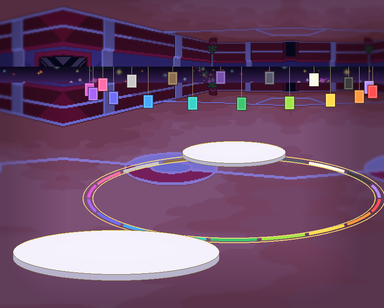
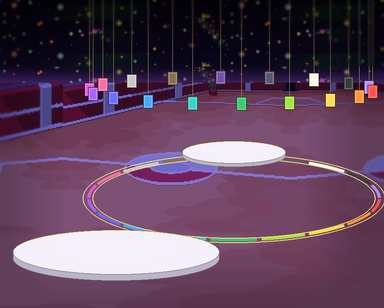
Backdrops: PRISM_ARENA gets its night sky above the stands; the barrier wall continues in perspective
Above the starfield strip the builder lays over the panel's top, the arena used to hang upside down (court
floor at the top of the room, the doorway inverted); now the same New World starfield runs on up under a
violet wash that deepens toward the zenith, and the prism plates' strings rise out of sight. At the panel's
left edge the barrier wall folded back into a mirrored corner; now each margin column is a wall column
142 px further right, scaled about the wall's level top edge to the height the wall has there (its foot
drops ~0.24 px per px toward the viewer), so posts and rails carry on and the wall keeps growing nearer.

Claude-Session: https://claude.ai/code/session_01SBLHz7mq5tij8ELd9mbfG8

Changed region(s): [[0.0, 0.0, 1.0, 0.2338], [0.0, 0.263, 0.1875, 0.4675]]

diff --git a/art/battlebacks/fields_i.py b/art/battlebacks/fields_i.py
@@ -14,7 +14,7 @@ everything a builder draws afterwards (platforms, props, layers) are unchanged.
 """
 import math, random
 import numpy as np
-from PIL import Image
+from PIL import Image, ImageDraw
 import margins as M
 import bblib
 from bblib import HD, depth_soften
@@ -618,6 +618,102 @@ def cathedral_pre(R, lab):
 
 PLANS["fbfe12b060"] = Plan(cathedral_labels, cathedral_layout, 2, sides=(46, 46), block=14, seed=21,
                            pre=cathedral_pre)
+
+
+#---------------------------------------------------------------------------------------------
+# PRISM_ARENA: princess-phoenix's arena (night panel at 2x, 512x384). Its builder lays a festival starfield over
+# the panel's top 36 rows; above it the whole arena used to hang upside down (court floor at the top of the room),
+# and the barrier wall at the panel's left edge folded back into a mirrored corner.
+#  * left margin: the barrier is a wall in perspective whose top stays at panel row ~24 while its foot drops
+#    ~0.24 px per px toward the viewer; each margin column is a wall column from 142 px to its right, scaled
+#    about the top edge to the height the wall has there (floor rows keep the old extension: plain court floor);
+#  * above the panel: night sky, painted after the builder's grade by prism_arena() below.
+#---------------------------------------------------------------------------------------------
+class PrismPlan(Plan):
+    TOP, SLOPE, D = 12, 0.24, 71                       # art px (panel / 2)
+
+    def __init__(self):
+        Plan.__init__(self, None, None, 1)
+
+    def floor_line(self, panel):
+        r, g, b = panel[..., 0], panel[..., 1], panel[..., 2]
+        fl = (r > 190) & (g > 120) & (b < 150) & (r - b > 60)
+        out = np.zeros(panel.shape[1], np.float32)
+        for x in range(panel.shape[1]):
+            col = fl[:, x]
+            out[x] = next((y for y in range(4, panel.shape[0] - 5) if col[y:y + 5].all()), panel.shape[0])
+        return out
+
+    def __call__(self, bg, origin, blur_out=True, darken=0.22, old=None):
+        old_raw = old() if old else M._orig_extend(bg, origin=origin, blur_out=False)
+        out = bblib.arr(old_raw)
+        P = np.asarray(bg.convert("RGB"), np.float32)[::2, ::2]
+        fl = self.floor_line(P)
+        T, s, D = self.TOP, self.SLOPE, self.D
+        ox, oy = int(origin[0]), int(origin[1])
+        for X in range(-(ox // 2), 0):                  # margin art columns
+            xs = X + D
+            f_here = fl[0] + s * (-X)
+            k = (fl[xs] - T) / (f_here - T)
+            for Y in range(T, int(np.ceil(f_here)) + 1):
+                sy = int(round(T + (Y - T) * k))
+                c = P[min(sy, P.shape[0] - 1), xs]
+                hx, hy = ox + 2 * X, oy + 2 * Y
+                out[hy:hy + 2, hx:hx + 2, :3] = c
+        img_ = bblib.img(out)
+        return depth_soften(img_, darken=darken) if blur_out else img_
+
+    def region_mask(self, origin, size):
+        m = np.zeros((HD[1], HD[0]), np.float32)
+        ox, oy = int(origin[0]), int(origin[1])
+        m[:oy, :] = 1
+        T, s, D = self.TOP, self.SLOPE, self.D
+        # the wall rows of the left margin (to just past its foot)
+        for hx in range(0, ox):
+            X = (hx - ox) // 2
+            f_here = 68 + s * (-X)
+            m[oy:oy + int(2 * (f_here + 2)), hx] = 1
+        return m
+
+    def region(self, R):
+        return self.region_mask((R.ox, R.oy), R.bg.size)
+
+
+PLANS["58598da0c3"] = PrismPlan()
+
+
+def prism_arena():
+    """fields_f.prism_arena on the planned room, then the festival sky above the stands: Rejuvenation's New World
+    starfield (the strip the builder lays over the panel's top) tiled upward, under the same violet wash deepening
+    toward the zenith; the prism plates' strings run up out of sight."""
+    import fields_c, fields_f
+    from fields_d import capture
+    hd, res = capture(fields_f.prism_arena, fields_c)
+    stars = bblib.game_img("rejuvenation", "battlebgNewWorld").crop((0, 0, 512, 110))
+    sky = Image.new("RGBA", (864, 150))
+    for y0 in range(150 - 110, -110, -110):
+        for x in range(0, 864, 512):
+            sky.alpha_composite(stars, (x, y0))
+    sky.alpha_composite(bblib.vgradient((864, 150), [(0, (6, 4, 26, 110)), (1, (20, 14, 60, 120))]))
+    d = ImageDraw.Draw(sky)
+    import fields_c as fc
+    for i in range(18):                                  # the same plate positions as the builder
+        a = i / 18 * 2 * math.pi + 0.1
+        x = 520 + math.cos(a) * 320
+        d.line([x, 0, x, 150], fill=(180, 160, 110, 255))
+    top = Image.new("RGBA", HD); top.alpha_composite(sky, (0, 0))
+    a = bblib.arr(hd); t = bblib.arr(top)
+    a[:150] = t[:150]
+    soft = bblib.arr(depth_soften(bblib.img(a)))
+    a[:150] = soft[:150]
+    hd = bblib.img(a)
+    bblib.save_room("field_prism_arena", hd)
+    res["origins"] = [o if o[0] != fields_c.OWN else [o[0], o[1] + ", night sky above the stands, the barrier "
+                                                                  "continued in perspective"] for o in res["origins"]]
+    return res
+
+
+BUILDERS["PRISM_ARENA"] = prism_arena
 
 
 #---------------------------------------------------------------------------------------------

diff --git a/docs/CREDITS.md b/docs/CREDITS.md
@@ -157,7 +157,7 @@ Every room and layer below was composed by `art/battlebacks/build_backdrops.py`.
 | MOUNTAIN | **aveontrainer (DeviantArt battle backgrounds; credit)**: battlebgwaterfall (painted highland tarn, crags and falls; extended)<br>**Pokémon Reborn (Reborn Team)**: enemybaseMountain<br>**Prismfall (procedural, art/battlebacks/*.py)**: moving foam on the falls, spray glow, mist, circling hawk, wind, gorge above the falls, crag cut-out over the foam | `battlebg/field_mountain.png`, `battlebg/field_mountain_hd.png`, `elements/pf_mountain_crags.png`, `elements/pf_mountain_foam.png`, `elements/pf_mountain_hawk.png`, `elements/pf_mountain_mist.png`, `elements/pf_mountain_spray.png` |
 | NEON_GRID | **Pokémon Rejuvenation (Rejuvenation Team)**: battlebgZeight (sky repainted to night, extended)<br>**Elite Battle: DX stock elements (Luka S.J.)**: spinLights<br>**Prismfall (procedural, art/battlebacks/*.py)**: Lumen skyline, perspective circuit grid, neon ring platforms, holo-billboards, airship, circuit glow<br>**stage 2**: Blackout: same rooftop with the grid dead - dark city, red emergency lamps, live sparks crackling over the floor, a few circuits buzzing back | `battlebg/field_neon_grid.png`, `battlebg/field_neon_grid_blackout.png`, `battlebg/field_neon_grid_blackout_hd.png`, `battlebg/field_neon_grid_hd.png`, `elements/pf_neon_grid_airship.png`, `elements/pf_neon_grid_blackout_alarm.png`, `elements/pf_neon_grid_blackout_flicker.png`, `elements/pf_neon_grid_blackout_sparks.png`, `elements/pf_neon_grid_board0.png`, `elements/pf_neon_grid_board1.png`, `elements/pf_neon_grid_board2.png`, `elements/pf_neon_grid_circuits.png`, `elements/pf_neon_grid_scan.png` |
 | NEW_MOON | **Pokémon Rejuvenation (Rejuvenation Team)**: battlebgGDCCentralSquareNight (painted night plaza and skyline, darkened violet)<br>**Elite Battle: DX stock elements (Luka S.J.)**: dark004 (vacuum rings)<br>**Prismfall (procedural, art/battlebacks/*.py)**: dark moon with violet corona, flickering windows, shadow mist, violet-rim platforms<br>**stage 2**: Abyss: same rooftops swallowed by darkness - stars and moon gone, only faint violet edges, void mist<br>**stage 3**: Lamplight: same rooftops with Nadir's gaslamps lit - lamp posts, warm windows and light pools, rising lamp sparks | `battlebg/field_new_moon.png`, `battlebg/field_new_moon_abyss.png`, `battlebg/field_new_moon_abyss_hd.png`, `battlebg/field_new_moon_hd.png`, `battlebg/field_new_moon_lamplight.png`, `battlebg/field_new_moon_lamplight_hd.png`, `elements/pf_new_moon_abyss_rim.png`, `elements/pf_new_moon_abyss_void.png`, `elements/pf_new_moon_corona.png`, `elements/pf_new_moon_lamplight_lamps.png`, `elements/pf_new_moon_lamplight_pools.png`, `elements/pf_new_moon_lamplight_windows.png`, `elements/pf_new_moon_shadow.png`, `elements/pf_new_moon_windows.png` |
-| PRISM_ARENA | **princess-phoenix (DeviantArt 'Some battle backgrounds'; credit)**: arena panel (night) at 2x: painted stadium court and stands<br>**Pokémon Rejuvenation (Rejuvenation Team)**: battlebgNewWorld (starfield strip above the stands)<br>**Elite Battle: DX stock elements (Luka S.J.)**: lightsA<br>**Prismfall (procedural, art/battlebacks/*.py)**: the 18 Plates ring, prismatic sigil, cheering crowd sheet, sweeping spotlights, confetti, camera flashes, marble platforms | `battlebg/field_prism_arena.png`, `battlebg/field_prism_arena_hd.png`, `elements/pf_prism_arena_beam0.png`, `elements/pf_prism_arena_beam1.png`, `elements/pf_prism_arena_beam2.png`, `elements/pf_prism_arena_crowd.png`, `elements/pf_prism_arena_plates.png`, `elements/pf_prism_arena_prism.png`, `elements/pf_prism_arena_sigil.png` |
+| PRISM_ARENA | **princess-phoenix (DeviantArt 'Some battle backgrounds'; credit)**: arena panel (night) at 2x: painted stadium court and stands<br>**Pokémon Rejuvenation (Rejuvenation Team)**: battlebgNewWorld (starfield strip above the stands)<br>**Elite Battle: DX stock elements (Luka S.J.)**: lightsA<br>**Prismfall (procedural, art/battlebacks/*.py)**: the 18 Plates ring, prismatic sigil, cheering crowd sheet, sweeping spotlights, confetti, camera flashes, marble platforms, night sky above the stands, the barrier continued in perspective | `battlebg/field_prism_arena.png`, `battlebg/field_prism_arena_hd.png`, `elements/pf_prism_arena_beam0.png`, `elements/pf_prism_arena_beam1.png`, `elements/pf_prism_arena_beam2.png`, `elements/pf_prism_arena_crowd.png`, `elements/pf_prism_arena_plates.png`, `elements/pf_prism_arena_prism.png`, `elements/pf_prism_arena_sigil.png` |
 | RAINBOW | **Pokémon Reborn (Reborn Team)**: battlebgRainbow, enemybaseRainbow<br>**Prismfall (procedural, art/battlebacks/*.py)**: cloud-bank floor, prismatic mist, drifting foreground clouds | `battlebg/field_rainbow.png`, `battlebg/field_rainbow_hd.png`, `elements/pf_rainbow_clouds.png`, `elements/pf_rainbow_mist.png`, `elements/pf_rainbow_shimmer.png` |
 | SCRAPYARD | **Pokémon Reborn (Reborn Team)**: battlebgFactory (gradient-mapped rust, extended)<br>**Prismfall (procedural, art/battlebacks/*.py)**: same layout wrecked: dead broken gears, collapsed catwalk, snapped conveyor, tipped crucible, scrap heaps, rusted platforms, red alarm lamp, severed-cable sparks, smoke | `battlebg/field_scrapyard.png`, `battlebg/field_scrapyard_hd.png`, `elements/pf_scrapyard_alarm.png`, `elements/pf_scrapyard_alarmglow.png`, `elements/pf_scrapyard_chain.png`, `elements/pf_scrapyard_dangle.png`, `elements/pf_scrapyard_smoke.png`, `elements/pf_scrapyard_spark.png` |
 | SILKWOOD | **Pokémon Rejuvenation (Rejuvenation Team)**: battlebgForest (graded green-gold)<br>**Elite Battle: DX stock elements (Luka S.J.)**: forestShade, lightsC<br>**Prismfall (procedural, art/battlebacks/*.py)**: orb webs with dew, silk curtains, silk-wrapped stump platforms, hanging strands and cocoons | `battlebg/field_silkwood.png`, `battlebg/field_silkwood_hd.png`, `elements/pf_silkwood_canopy.png`, `elements/pf_silkwood_cocoon0.png`, `elements/pf_silkwood_cocoon1.png`, `elements/pf_silkwood_dew.png`, `elements/pf_silkwood_strand0.png`, `elements/pf_silkwood_strand1.png`, `elements/pf_silkwood_strand2.png`, `elements/pf_silkwood_strand3.png`, `elements/pf_silkwood_strand4.png` |
